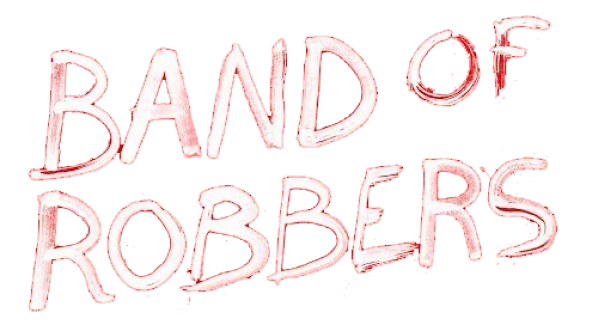
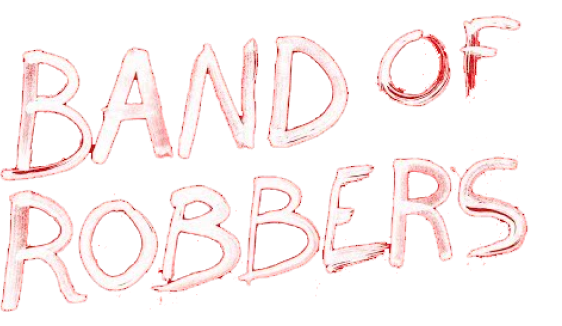
browse page updated

Changed region(s): [[0.0, 0.4601, 0.968, 0.9816], [0.0, 0.0307, 0.9377, 0.5521]]

diff --git a/browse.html b/browse.html
@@ -106,61 +106,69 @@
             </div>
         </nav>
     </header>
-    <section class="section_banner">
+    <section class="section_banner browse_bg">
         <div class="container">
             <div class="row">
                 <div class="col-md-8">
-                    <h1 class="poppin fw_semibold mb-4">Watch Uninterrupted TV and Movies for <span class="text_brand">Free</span></h1>
-                    <p class="inter sub-title mb_34">Featuring Top Creators From Around The World</p>
-                    <a href="#" class="btn btn_brand_circle">Start Watching today for FREE</a>
+                    <img src="./assets/images/brand-brow.png" alt="">
+                    <div class="movie_info">
+                        <a class="manrope" href="">Triller</a>
+                        <span></span>
+                        <a class="manrope" href="">2hr-40min</a>
+                        <span></span>
+                        <a class="manrope" href="">2021</a>
+                    </div>
+                    <p class="inter sub-title mb_34">A modern-day comedic adventure that imagines Tom Sawyer and Huck Finn as grown men, still searching for the hidden treasure that has eluded them since childhood.</p>
+                    <a href="#" class="btn btn_brand_fill">Watch Now</a>
+                    <a href="#" class="btn btn_brand_outline_white ms-3">Watch Now</a>
                 </div> 
+            </div>
+        </div>
+        <div class="section_slider_comp">
+            <div class="owl-carousel owl-theme ml-72 slide_1">
+                <div class="item">
+                    <a href="#"><img src="assets/images/Film-1.png" alt="" class="img-fluid"></a>
+                </div>
+                <div class="item">
+                    <a href=""><img src="assets/images/Film-2.png" alt="" class="img-fluid"></a>
+                </div>
+                <div class="item">
+                    <a href=""><img src="assets/images/Film-3.png" alt="" class="img-fluid"></a>
+                </div>
+                <div class="item">
+                    <a href=""><img src="assets/images/Film-4.png" alt="" class="img-fluid"></a>
+                </div>
+                <div class="item">
+                    <a href="#"><img src="assets/images/Film-1.png" alt="" class="img-fluid"></a>
+                </div>
+                <div class="item">
+                    <a href=""><img src="assets/images/Film-2.png" alt="" class="img-fluid"></a>
+                </div>
+                <div class="item">
+                    <a href=""><img src="assets/images/Film-3.png" alt="" class="img-fluid"></a>
+                </div>
+                <div class="item">
+                    <a href=""><img src="assets/images/Film-4.png" alt="" class="img-fluid"></a>
+                </div>
+                <div class="item">
+                    <a href="#"><img src="assets/images/Film-1.png" alt="" class="img-fluid"></a>
+                </div>
+                <div class="item">
+                    <a href=""><img src="assets/images/Film-2.png" alt="" class="img-fluid"></a>
+                </div>
+                <div class="item">
+                    <a href=""><img src="assets/images/Film-3.png" alt="" class="img-fluid"></a>
+                </div>
+                <div class="item">
+                    <a href=""><img src="assets/images/Film-4.png" alt="" class="img-fluid"></a>
+                </div>
             </div>
         </div>
     </section>
 
-    <!-- <section class="section_slider_comp">
-        <div class="owl-carousel owl-theme ml-72 slide_1">
-            <div class="item">
-                <a href="#"><img src="assets/images/Film-1.png" alt="" class="img-fluid"></a>
-            </div>
-            <div class="item">
-                <a href=""><img src="assets/images/Film-2.png" alt="" class="img-fluid"></a>
-            </div>
-            <div class="item">
-                <a href=""><img src="assets/images/Film-3.png" alt="" class="img-fluid"></a>
-            </div>
-            <div class="item">
-                <a href=""><img src="assets/images/Film-4.png" alt="" class="img-fluid"></a>
-            </div>
-            <div class="item">
-                <a href="#"><img src="assets/images/Film-1.png" alt="" class="img-fluid"></a>
-            </div>
-            <div class="item">
-                <a href=""><img src="assets/images/Film-2.png" alt="" class="img-fluid"></a>
-            </div>
-            <div class="item">
-                <a href=""><img src="assets/images/Film-3.png" alt="" class="img-fluid"></a>
-            </div>
-            <div class="item">
-                <a href=""><img src="assets/images/Film-4.png" alt="" class="img-fluid"></a>
-            </div>
-            <div class="item">
-                <a href="#"><img src="assets/images/Film-1.png" alt="" class="img-fluid"></a>
-            </div>
-            <div class="item">
-                <a href=""><img src="assets/images/Film-2.png" alt="" class="img-fluid"></a>
-            </div>
-            <div class="item">
-                <a href=""><img src="assets/images/Film-3.png" alt="" class="img-fluid"></a>
-            </div>
-            <div class="item">
-                <a href=""><img src="assets/images/Film-4.png" alt="" class="img-fluid"></a>
-            </div>
-        </div>
-    </section> -->
 
 
-    <!-- <footer>
+    <footer class="section_pt">
         <div class="container">
             <div class="row  align-items-center column">
                 <div class="d-flex align-items-center column">
@@ -186,7 +194,7 @@
                 <p class="copy_right text-center">2024 @ Reveel</p>
             </div>
         </div>
-    </footer> -->
+    </footer>
 
     <!-- Option 1: Bootstrap Bundle with Popper -->
     <script src="https://code.jquery.com/jquery-3.7.1.min.js"></script>

diff --git a/assets/style/css/main.css b/assets/style/css/main.css
@@ -9839,6 +9839,10 @@ a.poppin {
   font-family: "Poppins", sans-serif;
 }
 
+p.manrope {
+  font-family: "Montserrat", sans-serif;
+}
+
 a.underline {
   text-decoration: underline;
 }
@@ -10181,6 +10185,21 @@ body {
   color: #8D0000;
 }
 
+.btn_brand_outline_white {
+  font-family: "Montserrat", sans-serif;
+  background-color: transparent;
+  border: 1px solid #ffffff;
+  border-radius: 14px;
+  padding: 16px 50px;
+  font-weight: 500;
+  font-size: 18px;
+}
+.btn_brand_outline_white:hover {
+  background-color: #8D0000;
+  border: 1px solid #8D0000;
+  color: #ffffff;
+}
+
 .btn_brand_circle {
   padding: 20px 32px;
 }
@@ -10254,6 +10273,9 @@ body {
 /*------------------*\
     Carousel Section
 \*------------------*/
+.section_slider_comp {
+  margin-top: 65px;
+}
 .section_slider_comp .item a {
   display: block;
 }
@@ -10352,6 +10374,30 @@ body {
   font-family: "Inter", sans-serif;
   color: #8D0000;
   font-weight: 700;
+}
+
+/*--------------*\
+    Lists Section
+\*--------------*/
+.movie_info {
+  display: flex;
+  align-items: center;
+  margin-bottom: 16px;
+}
+.movie_info a {
+  color: #ffffff;
+  font-weight: 700;
+  font-size: 20px;
+}
+.movie_info span {
+  display: inline-block;
+  width: 7px;
+  height: 7%;
+  background-color: #ffffff;
+  border-radius: 30px;
+  margin: 0 10px;
+  position: relative;
+  z-index: 99;
 }
 
 /*--------------*\
@@ -10491,12 +10537,25 @@ footer .footer_nav ul li + li {
   padding: 322px 0 254px;
   position: relative;
 }
+.section_banner.browse_bg {
+  background-image: url("/assets/images/browse-bg.jpg");
+  padding: 322px 0 0;
+}
+.section_banner.browse_bg img {
+  position: relative;
+  z-index: 99;
+  margin-bottom: 23px;
+}
+.section_banner.browse_bg:before {
+  background-color: rgba(0, 0, 0, 0.6);
+  background-image: none;
+}
 .section_banner:before {
   content: "";
   position: absolute;
   left: 0;
   top: 0;
-  background-image: url(/assets/images/banner-overly.png);
+  background-image: url("/assets/images/banner-overly.png");
   background-repeat: no-repeat;
   background-size: cover;
   width: 100%;

diff --git a/assets/style/scss/5-sections/_hero.scss b/assets/style/scss/5-sections/_hero.scss
@@ -8,12 +8,25 @@
     background-position: center;
     padding:322px 0 254px;
     position: relative;
+    &.browse_bg{
+        background-image: url('/assets/images/browse-bg.jpg');
+        padding:322px 0 0;
+         img{
+            position: relative;
+            z-index: 99;
+            margin-bottom: 23px;
+        }
+        &:before{
+            background-color: rgba(0,0,0,0.6);
+            background-image: none;
+        }
+    }
     &:before{
         content: "";
         position: absolute;
         left: 0;
         top: 0;
-        background-image: url(/assets/images/banner-overly.png);
+        background-image: url('/assets/images/banner-overly.png');
         background-repeat: no-repeat;
         background-size: cover;
         width: 100%;

diff --git a/assets/style/scss/3-components/_lists.scss b/assets/style/scss/3-components/_lists.scss
@@ -1,3 +1,24 @@
 /*--------------*\
     Lists Section
 \*--------------*/
+.movie_info{
+    display: flex;
+    align-items: center;
+    margin-bottom: 16px;
+    a{
+        color: $white;
+        font-weight: $font-bold;
+        font-size: 20px;
+
+    }
+    span{        
+        display: inline-block;
+        width: 7px;
+        height: 7%;
+        background-color: $white;
+        border-radius: 30px;
+        margin: 0 10px;
+        position: relative;
+        z-index: 99;
+    }
+}

diff --git a/assets/style/scss/3-components/_buttons.scss b/assets/style/scss/3-components/_buttons.scss
@@ -26,6 +26,20 @@
     color: $scab-red;
   }
 }
+.btn_brand_outline_white{
+  font-family: $montserrat-font-family;
+  background-color:transparent;
+  border: 1px solid $white;
+  border-radius: 14px;
+  padding: 16px 50px;
+  font-weight: 500;
+  font-size: 18px;
+  &:hover{
+    background-color: $scab-red;
+    border: 1px solid $scab-red;
+    color: $white;
+  }
+}
 .btn_brand_circle{
   padding: 20px 32px;
 }

diff --git a/assets/style/scss/3-components/_carousel.scss b/assets/style/scss/3-components/_carousel.scss
@@ -5,9 +5,7 @@
 //     margin-left: 72px;
 // }
 .section_slider_comp {
-    // .slide_1 img{
-    //     max-width: 240px;
-    // }
+        margin-top: 65px;
     .item{
         a{
             display: block;

diff --git a/assets/style/scss/2-base/_text-helpers.scss b/assets/style/scss/2-base/_text-helpers.scss
@@ -42,6 +42,9 @@ p.sub-title{
 a.poppin{
   font-family: $poppins-font-family;
 }
+p.manrope{
+  font-family: $montserrat-font-family;
+}
 a.underline{
   text-decoration: underline;
 }

diff --git a/assets/style/scss/3-components/_index.scss b/assets/style/scss/3-components/_index.scss
@@ -2,6 +2,6 @@
  @import "buttons";
 @import "carousel";
 @import "forms";
-// @import "lists";
+@import "lists";
 @import "modals";
 // @import "tabs";
